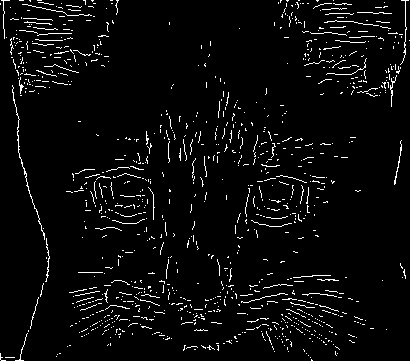
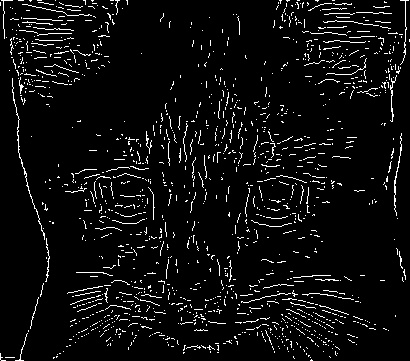
Finish the stick filter

diff --git a/Assignment_1/Stick_Filter/StickFilter.py b/Assignment_1/Stick_Filter/StickFilter.py
@@ -115,29 +115,39 @@ def sticks_filter(img, n=5, i=8):
         
     ])
 
-    # Perform sticks filtering
+    # Create empty 2D image 
     filtered_img = np.zeros(img.shape, dtype=np.float32)
-    # print(img)
+    
+    # Iterate thru every nxn sub array of image
     for i in range(1, img.shape[0]-n-1, n):
         for j in range(1, img.shape[1]-n-1, n):
+            # Initialize max kernel and max contrast
             max_kernel, max_contrast = kernels[0], float('-inf')
+            # Iterate thru every kernels to find the appropriate stick direction
             for kernel in kernels:
                 sum_sticks = 0
                 sum_neighboor = 0
+                # Iterate thru every cells of a kernel
                 for h in range(n):
                     for g in range(n):
+                        # If the cell is not 0 then add that value from img to sum sticks
                         if kernel[h, g] != 0:
                             sum_sticks += img[i+h, j+g]
+                        # Otherwise add the sum neighboor
                         else:
                             sum_neighboor += img[i+h, j+g]
-                avg_sticks = math.ceil(sum_sticks / 5)
-                avg_neighboor = math.ceil(sum_neighboor / 5**2)
-                if avg_sticks - avg_neighboor > max_contrast:
-                    max_contrast = avg_sticks - avg_neighboor
+                # Calculate average of sticks and neighboor
+                avg_sticks = math.ceil(sum_sticks / n)
+                avg_neighboor = math.ceil(sum_neighboor / n**2)
+                # Calculate maximal contrast response and associated kernel
+                if abs(avg_sticks - avg_neighboor) > max_contrast:
+                    max_contrast = (avg_sticks - avg_neighboor)
                     max_kernel = copy.deepcopy(kernel)
-
+            # Apply the choosen kernel to the image 
             filtered = cv2.filter2D(img, cv2.CV_64F, max_kernel)
+            # Take maximum response at each pixel for the final image
             filtered_img = np.maximum(filtered_img, filtered)
+
     return filtered_img
 
 def gradient_orientation(imgx, imgy):
@@ -192,7 +202,7 @@ def apply_threshold(img1):
     :return the image that has pixels above the threshold
     
     """
-    threshold = 30
+    threshold = 25
     img1[img1 < threshold] = 0
     img1[img1 >= threshold] = 255
     return img1
@@ -237,7 +247,7 @@ if __name__ == "__main__":
         # Import image
         img = cv2.imread(input,0)
         # Gaussian blur image
-        gaussian_blur_img = gaussian_blur(img, sigma=0)
+        gaussian_blur_img = gaussian_blur(img, sigma=2)
         
         # Sobels
         imgx, imgy = sobel_filters(gaussian_blur_img)

diff --git a/Assignment_1/Edge_Detection/EdgeDetection.py b/Assignment_1/Edge_Detection/EdgeDetection.py
@@ -103,7 +103,7 @@ def apply_threshold(img1):
     :return the image that has pixels above the threshold
     
     """
-    threshold = 30
+    threshold = 25
     img1[img1 < threshold] = 0
     img1[img1 >= threshold] = 255
     return img1
@@ -145,7 +145,7 @@ if __name__ == "__main__":
         # Import image
         img = cv2.imread(input,0)
         # Gaussian blur image
-        gaussian_blur_img = gaussian_blur(img, sigma=0)
+        gaussian_blur_img = gaussian_blur(img, sigma=2)
         
         # Sobels
         imgx, imgy = sobel_filters(gaussian_blur_img)
